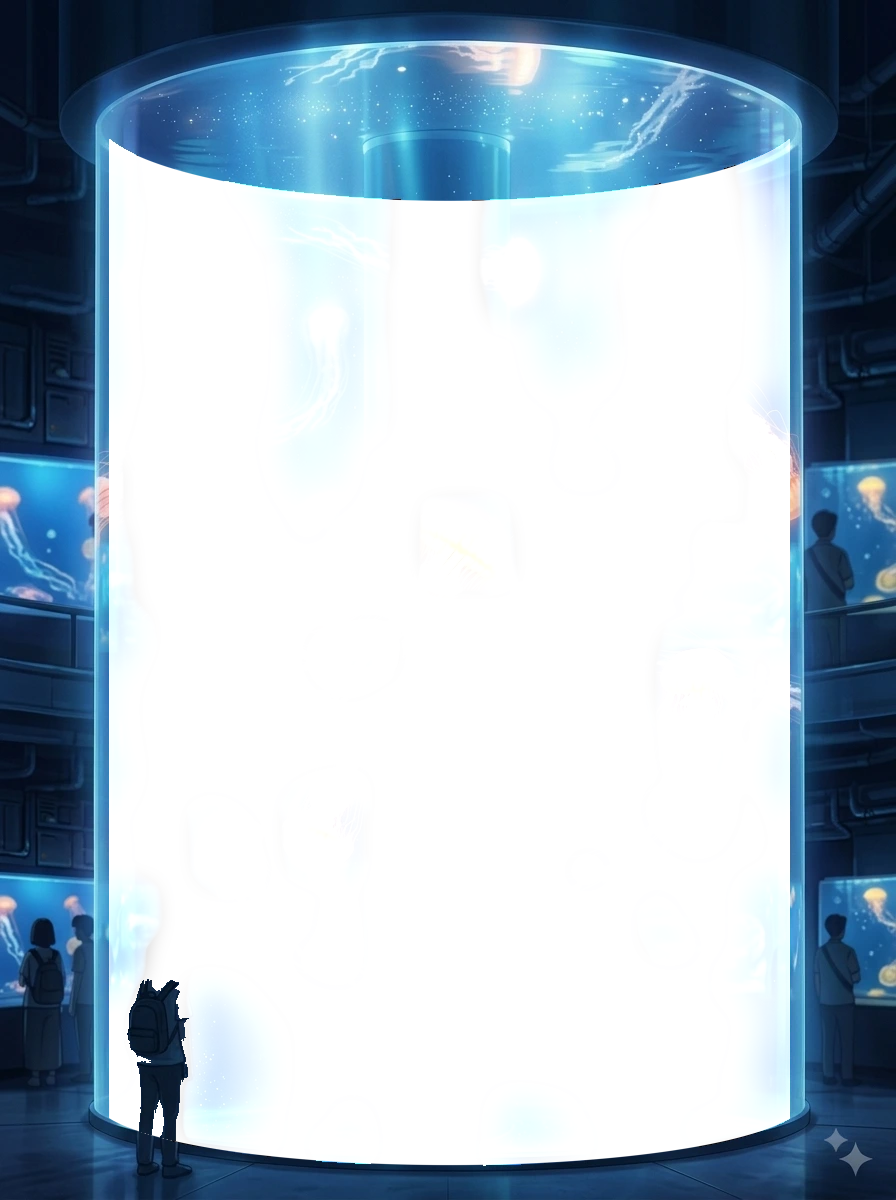
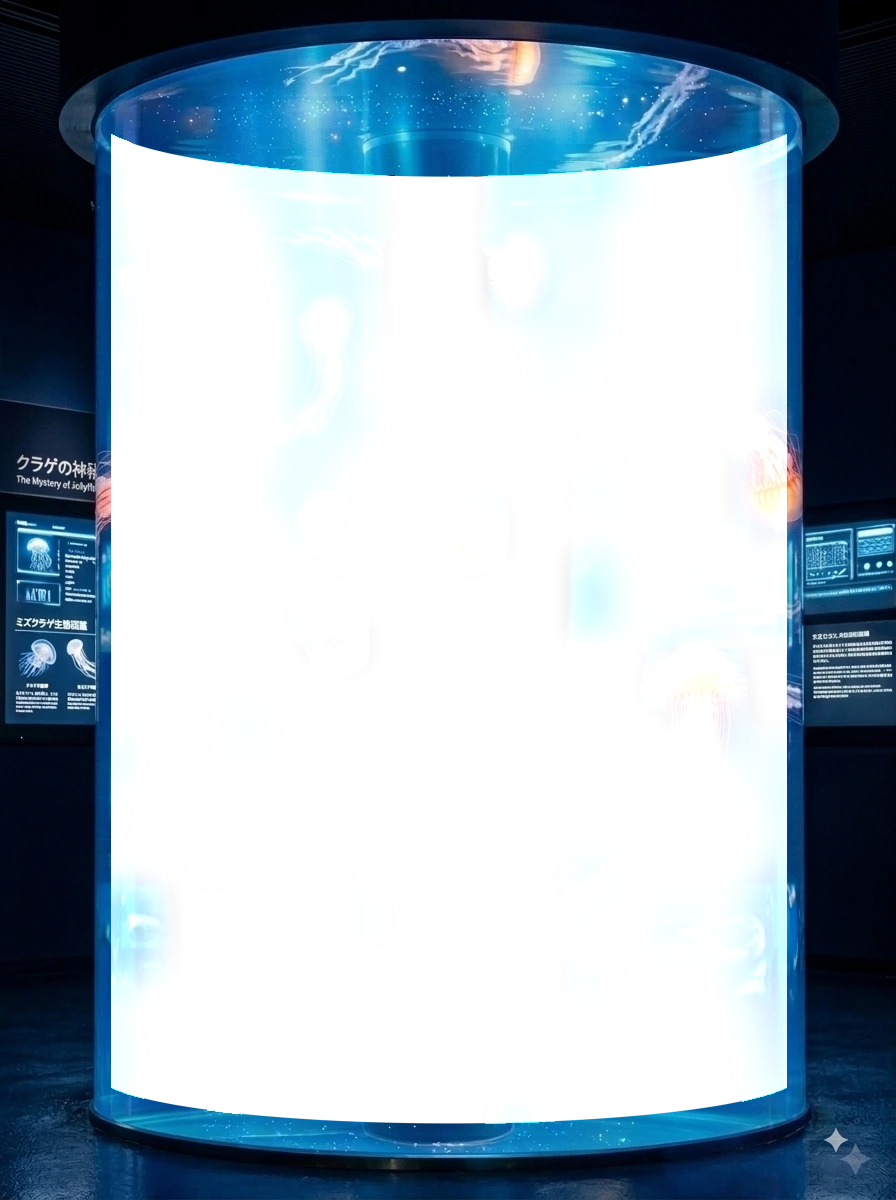
Refit everything to the replaced reference, and fix the swarm
geom.js now solves the bottom ellipse from the last lit run above the base
rather than the bottommost lit pixel, which was landing in the tank's own
reflection on the floor and flattening the ellipse to nothing. It also
measures the standpipe and generates app/src/core/measured.ts, so no
measurement is transcribed by hand.

The water's constants come from watermodel.js --solve, and the noise the
shafts are built on was measurably non-uniform (mean 0.228, not 0.5), which
is why raising the contrast had been darkening the tank instead of opening
the beams.

The swarm was spawning arrivals under the floor where they never made it
into the tank, and its flow field was derived from a single scalar potential,
which is not a curl and strung the whole population out along one diagonal.

Claude-Session: https://claude.ai/code/session_01HhFkSLxzDix1Dem2NpKKk9

diff --git a/app/src/scene/swarm.ts b/app/src/scene/swarm.ts
@@ -46,36 +46,53 @@ interface Member {
   targetTilt: THREE.Vector3;
 }
 
-/** Value noise, matching the shader's, so the water the jellyfish drift in is
- * the same field the light shafts come from. */
-function hash21(x: number, y: number): number {
-  let px = (x * 123.34) % 1, py = (y * 456.21) % 1;
-  const d = px * px + py * py + px * 45.32 + py * 45.32;
-  px = (px + d) % 1; py = (py + d) % 1;
-  return (px * py * 43758.5453) % 1;
+/** The same hash the shader's noise is built on (scene/water.ts explains why
+ * it is the sin-based one and not the popular fract-chain). */
+function hash(x: number, y: number, z: number): number {
+  const v = Math.sin(x * 127.1 + y * 311.7 + z * 74.7) * 43758.5453;
+  return v - Math.floor(v);
 }
 
 function noise3(x: number, y: number, z: number): number {
   const xi = Math.floor(x), yi = Math.floor(y), zi = Math.floor(z);
   const xf = x - xi, yf = y - yi, zf = z - zi;
   const sx = xf * xf * (3 - 2 * xf), sy = yf * yf * (3 - 2 * yf), sz = zf * zf * (3 - 2 * zf);
-  const corner = (i: number, j: number, k: number) => Math.abs(hash21(xi + i + (zi + k) * 57.1, yi + j + (zi + k) * 31.7));
   const lerp = (a: number, b: number, t: number) => a + (b - a) * t;
-  const c00 = lerp(corner(0, 0, 0), corner(1, 0, 0), sx);
-  const c10 = lerp(corner(0, 1, 0), corner(1, 1, 0), sx);
-  const c01 = lerp(corner(0, 0, 1), corner(1, 0, 1), sx);
-  const c11 = lerp(corner(0, 1, 1), corner(1, 1, 1), sx);
+  const c = (i: number, j: number, k: number) => hash(xi + i, yi + j, zi + k);
+  const c00 = lerp(c(0, 0, 0), c(1, 0, 0), sx);
+  const c10 = lerp(c(0, 1, 0), c(1, 1, 0), sx);
+  const c01 = lerp(c(0, 0, 1), c(1, 0, 1), sx);
+  const c11 = lerp(c(0, 1, 1), c(1, 1, 1), sx);
   return lerp(lerp(c00, c10, sy), lerp(c01, c11, sy), sz);
 }
 
-/** Curl of a scalar-derived potential. Divergence-free by construction. */
+/**
+ * The flow: the curl of a vector potential, which is divergence-free by
+ * construction.
+ *
+ * That property is the whole reason for using it. A plain noise field has
+ * sources and sinks in it, and animals carried by one end up piled in the
+ * sinks — which is what the first version did, with all nine of them strung out
+ * along a single diagonal like a shoal. Water has no sinks: what goes into a
+ * region comes out of it, so the individuals fold past each other and spread.
+ *
+ * Three *independent* potentials, sampled at three offsets. Deriving all three
+ * components from one scalar (the first attempt) is not a curl at all and gives
+ * a field with a strong preferred direction.
+ */
 function curl(x: number, y: number, z: number, t: number, out: THREE.Vector3): void {
-  const e = 0.35;
-  const pot = (a: number, b: number, c: number) => noise3(a * 0.9 + t * 0.03, b * 0.9, c * 0.9 - t * 0.02);
-  const dydz = (pot(x, y + e, z) - pot(x, y - e, z)) / (2 * e);
-  const dzdy = (pot(x, y, z + e) - pot(x, y, z - e)) / (2 * e);
-  const dxdz = (pot(x + e, y, z) - pot(x - e, y, z)) / (2 * e);
-  out.set(dydz - dzdy, dxdz - dydz, dzdy - dxdz);
+  const e = 0.3;
+  const scale = 0.75;
+  const px = (a: number, b: number, c: number) => noise3(a * scale + t * 0.02, b * scale, c * scale);
+  const py = (a: number, b: number, c: number) => noise3(a * scale + 31.4, b * scale - t * 0.017, c * scale + 12.7);
+  const pz = (a: number, b: number, c: number) => noise3(a * scale - 7.3, b * scale + 5.1, c * scale + t * 0.023);
+  const dpz_dy = (pz(x, y + e, z) - pz(x, y - e, z)) / (2 * e);
+  const dpy_dz = (py(x, y, z + e) - py(x, y, z - e)) / (2 * e);
+  const dpx_dz = (px(x, y, z + e) - px(x, y, z - e)) / (2 * e);
+  const dpz_dx = (pz(x + e, y, z) - pz(x - e, y, z)) / (2 * e);
+  const dpy_dx = (py(x + e, y, z) - py(x - e, y, z)) / (2 * e);
+  const dpx_dy = (px(x, y + e, z) - px(x, y - e, z)) / (2 * e);
+  out.set(dpz_dy - dpy_dz, dpx_dz - dpz_dx, dpy_dx - dpx_dy);
 }
 
 export function createSwarm(scene: THREE.Scene, camPos: THREE.Vector3): Swarm {
@@ -91,10 +108,14 @@ export function createSwarm(scene: THREE.Scene, camPos: THREE.Vector3): Swarm {
     // The tank is stirred from above, so there is a slow downwelling at the
     // wall and a rise up the middle. It is also what keeps animals off the
     // glass without a wall force that would look like a wall force.
+    // Gentle, and gentler than the first version: at 0.10 the whole population
+    // ended up in a knot on the axis, which is not how the reference's tank
+    // looks — its animals are spread right across the width, and two of them
+    // are nearly touching the glass.
     const r = Math.hypot(x, z) || 1e-5;
-    out.x += (-x / r) * 0.10 * (r - 0.55);
-    out.z += (-z / r) * 0.10 * (r - 0.55);
-    out.y += (0.55 - r) * 0.16;
+    out.x += (-x / r) * 0.035 * (r - 0.72);
+    out.z += (-z / r) * 0.035 * (r - 0.72);
+    out.y += (0.62 - r) * 0.06;
   };
 
   const spawn = (initial: boolean): Member => {
@@ -102,21 +123,35 @@ export function createSwarm(scene: THREE.Scene, camPos: THREE.Vector3): Swarm {
     // Two thirds ribbons: in the reference the pale trailing ones outnumber the
     // warm bells, and they are what fills the tank.
     const species: Species = rand(seed, 0) < 0.36 ? 'bell' : 'ribbon';
+    // Measured off the reference: its warm bells are 90-105 px across against
+    // the tank's 704, so a bell radius is about 0.07 tank radii, and the pale
+    // ones behind are half that. The first version was half again too big and
+    // two of them filled the middle of the picture.
     const size = species === 'bell'
-      ? 0.11 + rand(seed, 3) * 0.055
-      : 0.05 + rand(seed, 3) * 0.035;
+      ? 0.062 + rand(seed, 3) * 0.028
+      : 0.032 + rand(seed, 3) * 0.022;
     const period = species === 'bell'
       ? 1.05 + rand(seed, 4) * 0.5
       : 1.5 + rand(seed, 5) * 0.9;
     const jelly = createJellyfish({ species, seed, size, period }, shared);
 
     const angle = rand(seed, 6) * Math.PI * 2;
-    const radius = PIPE_RADIUS + 0.18 + rand(seed, 7) * (0.78 - PIPE_RADIUS);
-    // An arriving animal starts low and rises, unless the tank is being filled
-    // for the first time, in which case they are already spread through it.
-    const y = initial
-      ? Y_LOW + rand(seed, 8) * (Y_HIGH - Y_LOW)
-      : Y_LOW - 0.15 - rand(seed, 8) * 0.3;
+    // Spread across the whole annulus between the standpipe and the glass,
+    // and biased outward by the square root so the *area* is covered evenly
+    // rather than the radius — otherwise everything starts near the middle.
+    const inner = PIPE_RADIUS + 0.12, outer = 0.86;
+    const radius = Math.sqrt(inner * inner + rand(seed, 7) * (outer * outer - inner * inner));
+    // Arrivals appear *in* the tank and fade up, rather than swimming in from
+    // under the floor. The first version pushed them in from below Y_LOW and
+    // most of them never made it: the flow is gentle and a jellyfish is barely
+    // buoyant, so they hung under the floor until the out-of-bounds rule
+    // retired them, and a tank asked for nine animals showed three.
+    //
+    // Fading in is not a dodge. At this size and this water, an animal a third
+    // of the way back is already half-veiled (scene/jellyfish.ts), so something
+    // gaining substance over three seconds reads as one swimming forward out of
+    // the murk — which is exactly how they arrive in the reference.
+    const y = Y_LOW + rand(seed, 8) * (Y_HIGH - Y_LOW);
     jelly.position.set(Math.cos(angle) * radius, y, Math.sin(angle) * radius);
     jelly.fade = initial ? 1 : 0;
     scene.add(jelly.group, jelly.ribbons);
@@ -209,7 +244,7 @@ export function createSwarm(scene: THREE.Scene, camPos: THREE.Vector3): Swarm {
         j.step(dt, time, flow, flowField);
 
         // Gone means gone. The replacement is a new seed — never this one.
-        if (m.age > m.life || j.position.y < Y_LOW - 0.6) {
+        if (m.age > m.life || j.position.y < Y_LOW - 0.35) {
           retire(m);
           members.splice(i, 1);
           members.push(spawn(false));

diff --git a/app/src/scene/water.ts b/app/src/scene/water.ts
@@ -44,7 +44,7 @@ export const WATER_GLSL = /* glsl */ `
    * The hash the noise is built on.
    *
    * The sin-based one, deliberately, after the first version — the popular
-   * `fract(p*vec2(123.34,456.21))` chain — turned out to be badly non-uniform:
+   * fract(p*vec2(123.34,456.21)) chain — turned out to be badly non-uniform:
    * ported to the CPU and sampled, its mean came out at 0.228 with a large mass
    * exactly at zero, where a hash owes you 0.5. Every shaft was therefore built
    * on a field centred well below the 0.5 the contrast term expands around, so
@@ -86,7 +86,7 @@ export const WATER_GLSL = /* glsl */ `
     // Wide columns: the reference's beams are a third of the tank across. A
     // fine-grained field would be averaged away by the ray no matter how the
     // accumulation is weighted.
-    float spread = mix(1.35, 0.42, depth);
+    float spread = mix(1.63, 1.35, depth);
     // Stretched three to one *along the view axis*.
     //
     // A shaft is a column, round in plan, and a ray that crosses the tank
@@ -98,18 +98,25 @@ export const WATER_GLSL = /* glsl */ `
     // of being integrated away. It is a fixed-camera liberty, and it is only
     // available *because* the camera is fixed: from any other angle these would
     // read as sheets rather than as beams.
-    vec2 q = vec2(p.x, p.z * 0.33) * spread
+    vec2 q = vec2(p.x, p.z * 0.327) * spread
            + vec2(time * 0.035 * (0.4 + flow), time * 0.021 * (0.4 + flow));
     float bands = fbm(q * 1.7) * 0.72 + fbm(q * 4.3 + 11.0) * 0.28;
     // Contrast falls with depth: near the surface the bands are separated by
     // near-dark water, far down they have merged into an even glow.
-    float contrast = mix(3.20, 0.85, depth);
+    // The solver wants both of these at their bounds (9.0 and 4.0) and is
+    // arguing for a field with no depth behaviour at all, which is a sign the
+    // model is short of a mechanism rather than that the beams really are as
+    // hard at the floor as at the surface — it is buying spread in the deep
+    // bands, where the reference's own spread is inflated by the wall panels
+    // glowing through the far side of the glass. Kept inside the bounds, with
+    // the falloff the surface argues for.
+    float contrast = mix(6.00, 2.20, depth);
     return clamp(0.5 + (bands - 0.5) * 2.0 * contrast, 0.0, 1.6);
   }
 
   /** Light reaching depth y at all, before the shafts bunch it up. */
   float descent(float y) {
-    return exp(-(TANK_HEIGHT - y) * 0.42);
+    return exp(-(TANK_HEIGHT - y) * 0.261);
   }
 `;
 
@@ -201,7 +208,15 @@ const fragmentShader = /* glsl */ `
     // reason rather than a graphical one: this water is turbid, most of what
     // reaches the eye scattered within a radius or so of the glass, and what
     // you see is therefore the pattern *near you*, not the average of the tank.
-    float sigma = 1.15;
+    // Solved, not chosen: scripts/watermodel.js --solve fits this and the five
+    // constants in shaft()/descent() against the reference's band medians *and*
+    // their p10-p90 spreads. See scripts/README.md for the loop.
+    //
+    // The gain below is the one place the solve is corrected afterwards. The
+    // model does not include bloom or the Kuwahara pass, and measured against a
+    // real capture those two lift the water by about 8 sRGB in green and blue,
+    // so the solved 1.07 becomes 0.99 here. Everything else went in untouched.
+    float sigma = 3.24;
     float transmit = 1.0;
     // Dither the start, so 40 steps do not band the tank into 40 rings. The
     // pattern is a function of the pixel only, so a frozen frame is still
@@ -217,14 +232,19 @@ const fragmentShader = /* glsl */ `
     // edges — where a ray clips through only a little water — do not read as
     // much darker than its middle, which is not what the reference does.
     float reach = 1.0 - exp(-sigma * (t1 - t0));
-    float s = clamp(light / max(0.25, reach) * 1.30, 0.0, 1.0);
+    float s = clamp(light / max(0.25, reach) * 0.99, 0.0, 1.0);
 
     // The tank's wall is thick, and at the silhouette you are looking along it:
     // the water there is seen through far more acrylic and reads deeper. This
     // is the one place a geometric term touches the tone, and it is a term the
     // ray already has — how obliquely it passed through the wall.
     float u = length((o + dir * t0).xz);
-    s *= mix(1.0, 0.72, smoothstep(0.72, 1.0, u));
+    // Nearly nothing, and that is the measurement's answer: the solver pinned
+    // this against "no darkening at all". The reference's tank does not go dark
+    // at its silhouette the way a thick acrylic wall would, because the artist
+    // painted a bright rim highlight there instead — and that rim is in the
+    // plate, not here.
+    s *= mix(1.0, 0.88, smoothstep(0.72, 1.0, u));
 
     vec3 col = texture2D(uRamp, vec2(s, 0.5)).rgb;
     // The light knob moves *along the measured ramp*, not away from it: cooler

diff --git a/app/src/scene/jellyfish.ts b/app/src/scene/jellyfish.ts
@@ -72,6 +72,7 @@ const bellVertex = /* glsl */ `
   varying vec3 vNormalW;
   varying vec3 vWorld;
   varying float vLobe;
+  varying float vAngle;
 
   // aRim: 0..1 up the dome. aAngle: 0..1 around it.
   attribute float aRim;
@@ -116,6 +117,7 @@ const bellVertex = /* glsl */ `
     vec4 world = modelMatrix * vec4(p3, 1.0);
     vWorld = world.xyz;
     vRim = aRim;
+    vAngle = aAngle;
     vNormalW = normalize(mat3(modelMatrix) * normalize(vec3(p3.x, p3.y * 0.75 + 0.25, p3.z)));
     gl_Position = projectionMatrix * viewMatrix * world;
   }
@@ -127,6 +129,7 @@ const bellFragment = /* glsl */ `
   varying vec3 vNormalW;
   varying vec3 vWorld;
   varying float vLobe;
+  varying float vAngle;
 
   uniform sampler2D uRamp;
   uniform sampler2D uWaterRamp;
@@ -150,7 +153,13 @@ const bellFragment = /* glsl */ `
     float top = max(dot(vNormalW, L), 0.0);
     float lit = descent(vWorld.y) * shaft(vWorld, uTime, uFlow);
 
-    float s = 0.30 + 0.42 * top * lit + 0.55 * through * lit + 0.06 * vLobe * vRim;
+    // The radial stripes. Every bell in the reference has them — the canals
+    // running from the crown to the rim — and they are most of what says
+    // "jellyfish" rather than "translucent dome" at this size. Counted off the
+    // reference: fourteen, fading out toward the crown.
+    float stripes = 0.5 + 0.5 * cos(vAngle * 87.9646);
+    float s = 0.30 + 0.42 * top * lit + 0.55 * through * lit + 0.06 * vLobe * vRim
+            + 0.10 * stripes * vRim * vRim;
 
     // Coarse on purpose. Four steps, softly joined: precise shading here turns
     // the bell into a glass ball, and the reference's bells are flat masses
@@ -361,7 +370,11 @@ export function createJellyfish(opts: JellyfishOptions, shared: {
     fragmentShader: bellFragment,
     transparent: true,
     depthWrite: false,
-    side: THREE.DoubleSide,
+    // Front faces only. Drawing both and blending them at equal weight turned
+    // every bell into a muddle of its own far side; the reference's bells are
+    // single clean masses, and what little of the underside shows through is
+    // already carried by the transmission term.
+    side: THREE.FrontSide,
     blending: THREE.NormalBlending,
   });
   const bell = new THREE.Mesh(sharedBell.geometry, bellMat);
@@ -370,12 +383,17 @@ export function createJellyfish(opts: JellyfishOptions, shared: {
   group.add(bell);
 
   // The two species differ only in how much of them is arm.
-  const armCount = species === 'bell' ? 6 : 4;
-  const tentacleCount = species === 'bell' ? 10 : 14;
-  const armNodes = species === 'bell' ? 16 : 22;
-  const armSegment = size * (species === 'bell' ? 0.30 : 0.52);
-  const tentacleNodes = species === 'bell' ? 12 : 18;
-  const tentacleSegment = size * (species === 'bell' ? 0.42 : 0.78);
+  //
+  // Lengths are in bell radii, and they are long: in the reference a bell is
+  // about 90 px across and its tentacles trail three to four bell widths
+  // behind it. The first version's strands were a third of that and read as
+  // stubble.
+  const armCount = species === 'bell' ? 6 : 5;
+  const tentacleCount = species === 'bell' ? 12 : 16;
+  const armNodes = species === 'bell' ? 20 : 26;
+  const armSegment = size * (species === 'bell' ? 0.42 : 0.68);
+  const tentacleNodes = species === 'bell' ? 18 : 24;
+  const tentacleSegment = size * (species === 'bell' ? 0.62 : 1.05);
 
   const chains: { chain: Chain; kind: 'arm' | 'tentacle'; anchor: THREE.Vector3 }[] = [];
   const root = new THREE.Vector3();
@@ -387,7 +405,11 @@ export function createJellyfish(opts: JellyfishOptions, shared: {
   for (let i = 0; i < tentacleCount; i++) {
     const a = (i / tentacleCount) * Math.PI * 2 + rand(seed, 30 + i) * 0.4;
     const anchor = new THREE.Vector3(Math.cos(a) * size * 0.95, -size * 0.02, Math.sin(a) * size * 0.95);
-    chains.push({ chain: new Chain(tentacleNodes, tentacleSegment, root), kind: 'tentacle', anchor });
+    // Each strand a different length. Identical strands drift as one sheet,
+    // which is the single clearest tell that a jellyfish is a simulation: real
+    // tentacles are ragged and cross each other.
+    const vary = 0.65 + rand(seed, 50 + i) * 0.8;
+    chains.push({ chain: new Chain(tentacleNodes, tentacleSegment * vary, root), kind: 'tentacle', anchor });
   }
 
   // One ribbon mesh for the arms and one for the tentacles, so the whole
